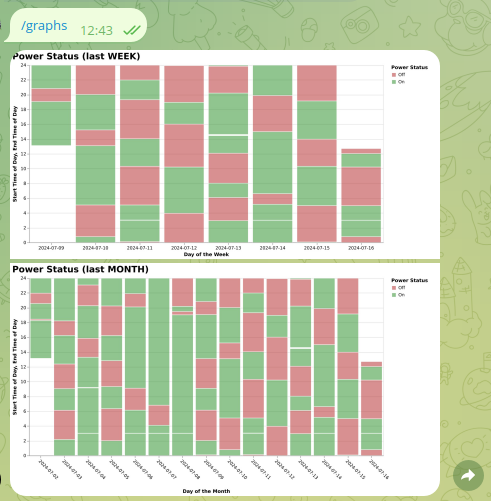
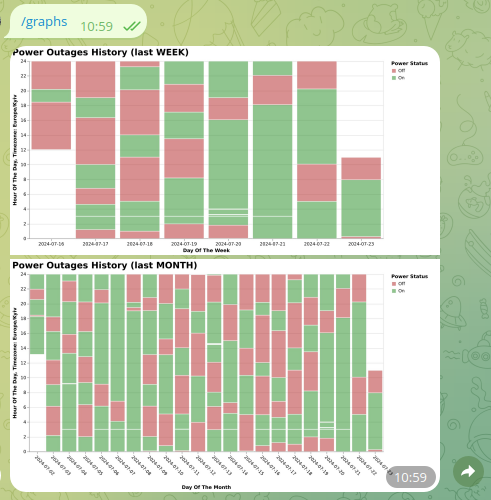
update graph

diff --git a/src/services/history/history-plotter.js b/src/services/history/history-plotter.js
@@ -17,7 +17,7 @@ function createSpec(url, type) {
             url,
         },
         "title": {
-            "text": `Power Status (last ${type.toUpperCase()})`,
+            "text": `Power Outages History (last ${type.toUpperCase()})`,
             "fontSize": 20,
             "fontWeight": "bold",
             "anchor": "start"
@@ -52,7 +52,7 @@ function createSpec(url, type) {
             "x": {
                 "field": "dayOfMonth",
                 "type": "nominal",
-                "title": `Day of the ${capitalize(type)}`,
+                "title": `Day Of The ${capitalize(type)}`,
                 "sort": "ascending",
                 "axis": {
                     "labelAngle": type === history.SAMPLE.WEEK ? 0 : 45,
@@ -63,18 +63,18 @@ function createSpec(url, type) {
             "y": {
                 "field": "startTimeOfDay",
                 "type": "quantitative",
-                "title": "Start Time of Day"
+                "title": "Hour Of The Day"
             },
             "y2": {
                 "field": "endTimeOfDay",
                 "type": "quantitative",
-                "title": "End Time of Day"
+                "title": `Timezone: ${history.TIMEZONE}`
             },
             "color": {
                 "field": "powerStatus",
                 "type": "nominal",
                 "scale": {"range": ["#b22222", "#228b22"]},
-                "legend": {"title": "Power Status"}
+                "legend": {"title": `Power Status`}
             }
         }
     }
